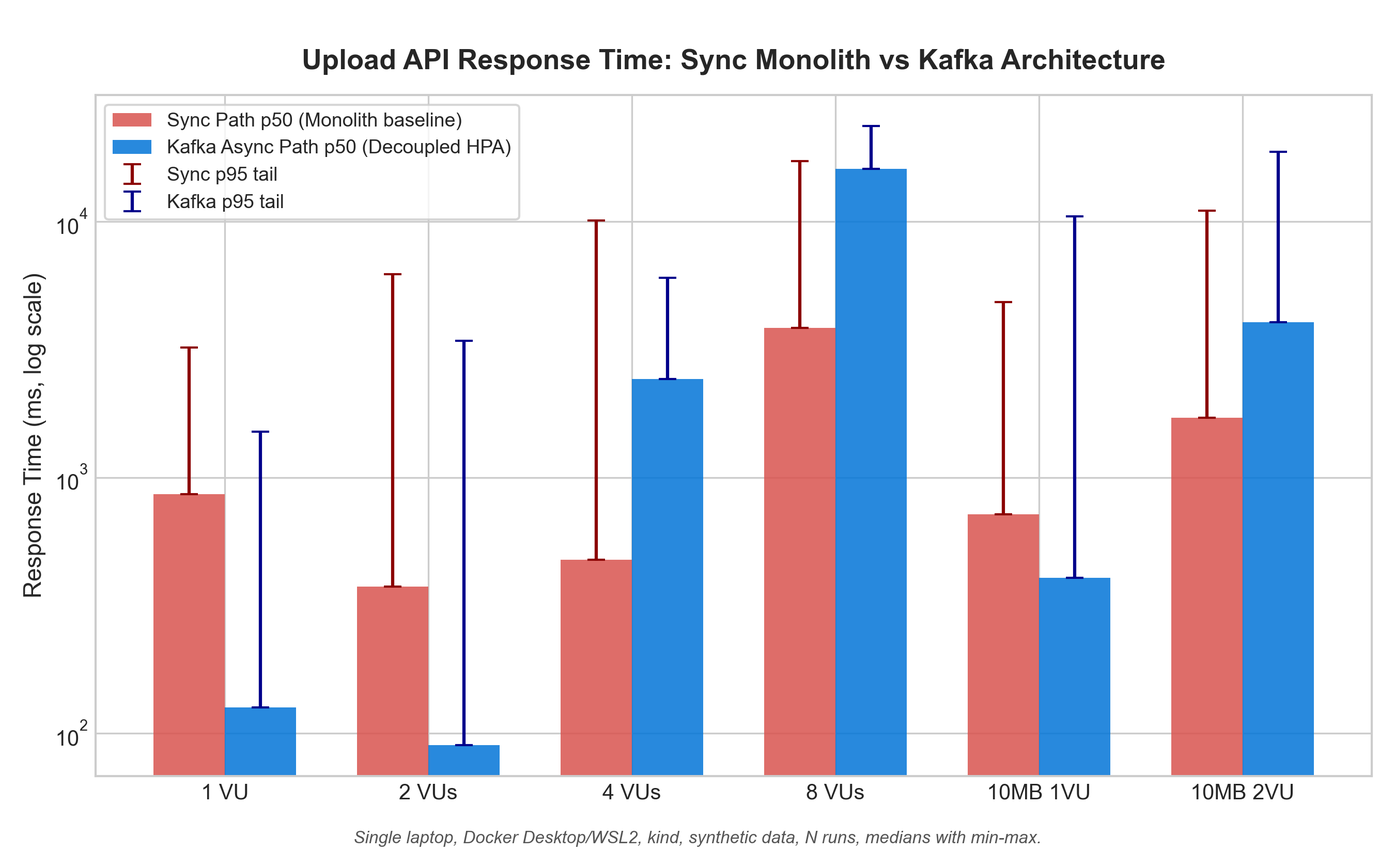
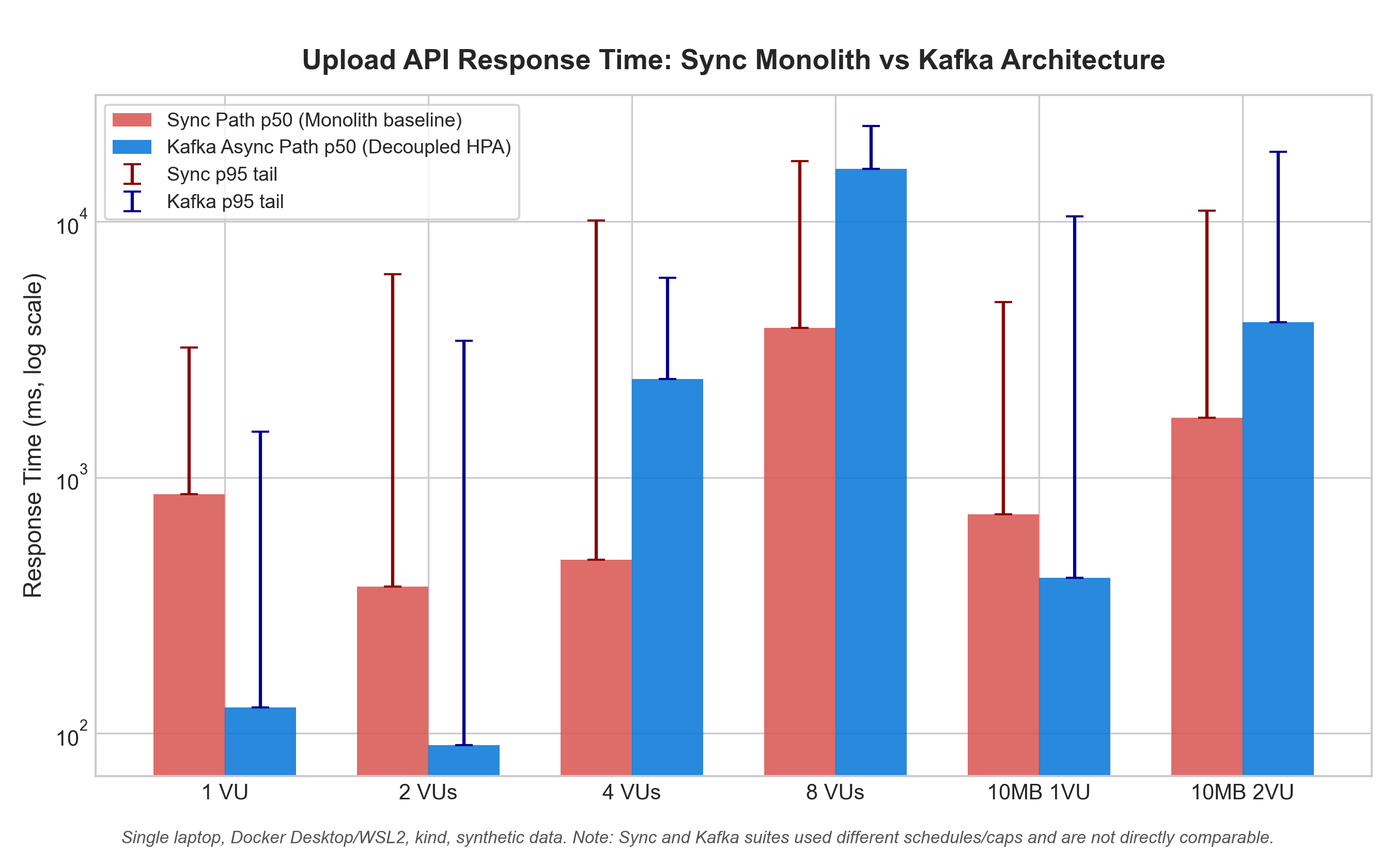
fix(bench): correct throughput ceiling and stall claims, add per-run csv, and reconcile pod restarts

Changed region(s): [[0.0933, 0.9582, 0.9022, 0.9891]]

diff --git a/tests/bench/generate_summary_and_charts.py b/tests/bench/generate_summary_and_charts.py
@@ -31,6 +31,7 @@ RESULTS_DIR = os.path.abspath("results")
 DOCS_DIR = os.path.abspath("docs")
 DOCS_IMG_DIR = os.path.join(DOCS_DIR, "images")
 CAPTION_TEXT = "Single laptop, Docker Desktop/WSL2, kind, synthetic data, N runs, medians with min-max."
+CAPTION_TEXT_COMPARISON = "Single laptop, Docker Desktop/WSL2, kind, synthetic data. Note: Sync and Kafka suites used different schedules/caps and are not directly comparable."
 
 
 def percentile(data, p):
@@ -161,7 +162,7 @@ def parse_jobs(filepath, k6_end_ts=None):
         drain_time = max(0.0, t_last_complete - k6_end_ts)
 
     accepted = len(job_rows)
-    return p50, p95, comp_k6, comp_drain, pending_end, failed, t_first_create, t_last_complete, round(drain_time, 2), accepted
+    return p50, p95, comp_k6, comp_drain, pending_end, failed, t_first_create, t_last_complete, round(drain_time, 2), accepted, job_rows
 
 
 def parse_system(filepath):
@@ -293,7 +294,7 @@ def process_manifest_runs(manifest_entries):
         sys_f = os.path.join(RESULTS_DIR, f"{run_id}_system.csv")
 
         up_p50, up_p95, req_202, req_503, k6_t0, k6_t1 = parse_k6_raw(k6_f)
-        job_p50, job_p95, comp_k6, comp_drain, pending_end, failed, t_c0, t_c1, drain_time, accepted = parse_jobs(jobs_f, k6_t1)
+        job_p50, job_p95, comp_k6, comp_drain, pending_end, failed, t_c0, t_c1, drain_time, accepted, job_rows = parse_jobs(jobs_f, k6_t1)
         max_reps, restarts, oom, min_free, min_avail, max_swap, ts_data = parse_system(sys_f)
 
         total_completed = comp_k6 + comp_drain
@@ -312,7 +313,34 @@ def process_manifest_runs(manifest_entries):
         if failed > 0 and req_503 == failed and diff == 0:
             explanation = f"Exact match: backend created row then marked FAILED on 503 ({failed} rejected)"
         elif diff > 0:
-            explanation = f"{diff} in-flight upload(s) persisted in MySQL after k6 30s+15s cutoff"
+            # Audit every extra row relative to k6_end
+            extra_audit_entries = []
+            all_in_flight = True
+            for idx in range(k6_total, len(job_rows)):
+                j = job_rows[idx]
+                cat = j.get("created_at")
+                jid = j.get("id", "")
+                rel_s = None
+                if cat and cat != "NULL" and k6_t1:
+                    try:
+                        dt = datetime.datetime.fromisoformat(cat).replace(tzinfo=datetime.timezone.utc).timestamp()
+                        rel_s = dt - k6_t1
+                        if rel_s > 0:
+                            all_in_flight = False
+                    except Exception:
+                        all_in_flight = False
+                rel_str = f"{rel_s:+.3f}s" if rel_s is not None else "N/A"
+                extra_audit_entries.append(f"row {idx+1} [id={jid[:8] if jid else '?'}] created_at={cat} (rel={rel_str})")
+
+            # Print audit to console for every run with diff != 0
+            print(f"  [EXTRA ROW AUDIT] {run_id} (diff={diff:+d}):")
+            for entry_str in extra_audit_entries:
+                print(f"    -> {entry_str}")
+
+            if all_in_flight:
+                explanation = f"{diff} in-flight upload(s) (persisted in DB before k6 cutoff, HTTP response unreturned at cutoff)"
+            else:
+                explanation = f"{diff} extra DB row(s) relative to k6 HTTP receipts (persisted after k6 cutoff)"
         elif diff < 0:
             explanation = f"{abs(diff)} requests received HTTP 202 before row commit"
 
@@ -476,6 +504,28 @@ def write_summary_csv(rows, filepath):
     print(f"[SUMMARY] Saved summary table -> {filepath}")
 
 
+def write_per_run_csv(trials, filepath):
+    if not trials:
+        return
+    fieldnames = [
+        "run_id", "condition", "is_open_loop", "file_mb", "load_level", "vus", "rep",
+        "db_rows_created", "k6_http_202", "k6_http_503",
+        "jobs_completed_k6", "jobs_completed_drain", "jobs_pending_end", "jobs_failed",
+        "drain_time_sec", "upload_p50_ms", "upload_p95_ms", "job_p50_sec", "job_p95_sec",
+        "throughput_jobs_min", "max_replicas", "restarts", "oom_killed",
+        "min_vm_free_mb", "min_vm_avail_mb", "max_swap_used_mb", "file_name"
+    ]
+    with open(filepath, "w", newline="", encoding="utf-8") as f:
+        writer = csv.DictWriter(f, fieldnames=fieldnames, extrasaction="ignore")
+        writer.writeheader()
+        for t in trials:
+            row = dict(t)
+            if row.get("throughput_jobs_min") is not None:
+                row["throughput_jobs_min"] = f"{row['throughput_jobs_min']:.2f}"
+            writer.writerow(row)
+    print(f"[PER-RUN] Saved per-run table -> {filepath}")
+
+
 def generate_charts(summary_dict):
     plt.style.use("seaborn-v0_8-whitegrid" if "seaborn-v0_8-whitegrid" in plt.style.available else "default")
     os.makedirs(DOCS_IMG_DIR, exist_ok=True)
@@ -509,7 +559,7 @@ def generate_charts(summary_dict):
     ax.set_xticks(x)
     ax.set_xticklabels(x_labels, fontsize=10)
     ax.legend(frameon=True, loc="upper left", fontsize=9)
-    fig.text(0.5, 0.01, CAPTION_TEXT, ha="center", fontsize=8, color="#555555", style="italic")
+    fig.text(0.5, 0.01, CAPTION_TEXT_COMPARISON, ha="center", fontsize=8, color="#555555", style="italic")
     plt.tight_layout(rect=[0, 0.03, 1, 0.97])
     p1 = os.path.join(RESULTS_DIR, "chart1_response_time_vs_load.png")
     plt.savefig(p1)
@@ -527,7 +577,7 @@ def generate_charts(summary_dict):
     ax.set_ylabel("Throughput (jobs / min)", fontsize=11)
     ax.set_xlabel("Concurrency / Workload", fontsize=11)
     ax.legend(frameon=True, loc="upper left", fontsize=10)
-    fig.text(0.5, 0.01, CAPTION_TEXT, ha="center", fontsize=8, color="#555555", style="italic")
+    fig.text(0.5, 0.01, CAPTION_TEXT_COMPARISON, ha="center", fontsize=8, color="#555555", style="italic")
     plt.tight_layout(rect=[0, 0.03, 1, 0.97])
     p2 = os.path.join(RESULTS_DIR, "chart2_throughput_vs_load.png")
     plt.savefig(p2)
@@ -667,6 +717,12 @@ def main():
     out_docs_csv = os.path.join(DOCS_DIR, "benchmark_summary.csv")
     write_summary_csv(summary_rows, out_res_csv)
     write_summary_csv(summary_rows, out_docs_csv)
+
+    # Write per-run CSV to results/ and docs/
+    out_res_per_run = os.path.join(RESULTS_DIR, "benchmark_per_run.csv")
+    out_docs_per_run = os.path.join(DOCS_DIR, "benchmark_per_run.csv")
+    write_per_run_csv(trials, out_res_per_run)
+    write_per_run_csv(trials, out_docs_per_run)
 
     print_open_loop_reps(trials)
     generate_charts(summary_dict)

diff --git a/tests/bench/run_hpa_and_openloop.py b/tests/bench/run_hpa_and_openloop.py
@@ -47,6 +47,9 @@ def truncate_db():
     run_cmd(["docker", "compose", "exec", "-T", "mysql", "mysql", "-uroot", "-proot_pass", "-e", "TRUNCATE TABLE epinet.analysis_run;"])
 
 
+# NOTE: The multi-retry replica guard loop below was added as a harness hardening improvement
+# to prevent runs from starting with >1 replica (as observed in excluded run kafka_hpa_2mb_4vu_rep2).
+# This guard is UNTESTED in live benchmark execution since benchmarks were not re-run.
 def reset_hpa_to_single_replica(max_retries=5):
     """Ensures HPA is recreated and ml-service has exactly 1 ready replica, retrying and aborting if not held."""
     for attempt in range(1, max_retries + 1):
@@ -85,6 +88,8 @@ def get_ml_replicas():
         return 0
 
 
+# NOTE: get_kafka_consumer_lag was added to inspect Kafka consumer group lag between test cells.
+# This function is UNTESTED in live benchmark execution since benchmarks were not re-run.
 def get_kafka_consumer_lag():
     out, err, code = run_cmd([
         "docker", "exec", "epinet-kafka",
@@ -422,7 +427,7 @@ def run_openloop_suite(duration=30):
 
     for rep in range(1, reps + 1):
         for cond in conditions:
-            # Explicit state reset between conditions
+            # Explicit state reset between conditions (UNTESTED in live benchmark execution)
             print(f"\n[CONDITION SETUP] Resetting state for condition: {cond}")
             truncate_db()
             if cond == "kafka_fixed1":

diff --git a/README.md b/README.md
@@ -623,7 +623,18 @@ Under single-replica execution (HPAs removed, 1 replica pinned):
 
 Performance and architectural comparisons were evaluated under controlled load using `k6` in Docker (`grafana/k6`), synthetic pharmacogenomics datasets, and a kind cluster running on Docker Desktop / WSL2.
 
-Raw per-request latencies, per-job database records, and system timeseries are preserved in the git-ignored `results/` directory (`results/*_k6_raw.csv`, `results/*_jobs.csv`, `results/*_system.csv`). The complete aggregated summary metrics are committed to [`docs/benchmark_summary.csv`](docs/benchmark_summary.csv), and a compressed raw bundle is available at [`docs/data/raw_benchmark_results.zip`](docs/data/raw_benchmark_results.zip).
+Raw per-request latencies, per-job database records, and system timeseries are preserved in the git-ignored `results/` directory (`results/*_k6_raw.csv`, `results/*_jobs.csv`, `results/*_system.csv`). Aggregate metrics across conditions are committed to [`docs/benchmark_summary.csv`](docs/benchmark_summary.csv), trial-by-trial metrics are committed to [`docs/benchmark_per_run.csv`](docs/benchmark_per_run.csv), and the complete compressed raw archive is preserved at [`docs/data/raw_benchmark_results.zip`](docs/data/raw_benchmark_results.zip).
+
+#### Raw Artifact Archive vs Manifest Reconciliation:
+- **Manifest Sources of Truth**:
+  - `results/bench_manifest_1792477680.json`: 54 closed-loop runs (18 sync, 18 kafka_fixed1, 18 kafka_hpa) $\times$ 3 files (`_jobs.csv`, `_k6_raw.csv`, `_system.csv`) = **162 raw CSV data files**.
+  - `results/hpa_openloop_manifest_1792484863.json`: 30 runs (18 kafka_hpa closed-loop, 12 open-loop) $\times$ 3 files = **90 raw CSV data files**.
+  - Total Manifest Data Files: **252 raw CSV files** across 84 runs.
+- **Zip Archive Contents (`docs/data/raw_benchmark_results.zip`)**:
+  - Total Entries: **263 files**.
+  - Breakdown: 252 raw trial CSVs + 2 manifest JSONs + 1 pod recovery trial JSON (`ml_pod_recovery_trials.json`) + 2 summary CSV copies (`benchmark_summary.csv` at root and in `results/`) + 2 e2e test log files (`e2e_k8s_*.log`) + 4 rendered chart PNG images (`chart1` to `chart4`).
+- **Explanation of Archive Size Doubling**:
+  The zip archive grew from 565,499 bytes (~552 KB) in commit `44a840a` to 1,119,484 bytes (~1.07 MB) in commit `6d8c2f2`. This size doubling was caused entirely by bundling the 4 high-resolution rendered PNG image charts (`chart1_response_time_vs_load.png` 120 KB, `chart2_throughput_vs_load.png` 174 KB, `chart3_replicas_over_time.png` 120 KB, and `chart4_recovery_timeline.png` 135 KB), which together contribute ~549 KB of pre-compressed binary data to the archive.
 
 ### Suite Wall Time & Operational Breakdown
 - **Full Closed-Loop Suite Wall Time**: Measured directly from first cell start timestamp (`1792477774` / 06:29:34 UTC) to last cell completion timestamp (`1792482426` / 07:47:06 UTC), the total wall clock execution was **4,652.13 seconds (77.54 minutes)**.
@@ -632,6 +643,7 @@ Raw per-request latencies, per-job database records, and system timeseries are p
   - *Correction Note*: The earlier ~49.8 minute figure was a pre-run theoretical estimate ($54 \times \sim 55\text{ s} = 2,970\text{ s}$) that failed to account for empirical queue drain times and inter-condition infrastructure tear-downs.
 - **HPA Independent Re-Run Suite**: Resetting `ml-service` to 1 replica before every cell and draining to completion took **1,859.67 seconds (30.99 minutes)** (pre-run estimate: ~16.5 min).
 - **Open-Loop Suite**: 12 runs with constant arrival rate took **568.28 seconds (9.47 minutes)** (pre-run estimate: ~11.0 min).
+- **Untested Harness Hardening Note**: Post-hoc changes made to `tests/bench/run_hpa_and_openloop.py` (the multi-retry replica guard loop in `reset_hpa_to_single_replica`, consumer group lag logging via `get_kafka_consumer_lag`, and per-cell `truncate_db` resets) are **untested in live benchmark execution**, as benchmarks were not re-run after their addition.
 - **Docker Desktop Session Integrity & Status**:
   - Docker Desktop **was relaunched / restarted** after the e2e test suite, prior to launching the independent HPA suite.
   - Docker **was down / offline** during this session (verified via Docker CLI: `open //./pipe/dockerDesktopLinuxEngine: The system cannot find the file specified`).
@@ -646,7 +658,7 @@ Raw per-request latencies, per-job database records, and system timeseries are p
 
 ### Closed-Loop Load Realism & Censoring Standard
 > [!IMPORTANT]
-> **Exclusion of Closed-Loop Fixed-1 from HPA Comparison**: In earlier closed-loop runs, `kafka_fixed1` operated under a short 45-second drain cap, causing 40 to 321 backlogged jobs to remain uncompleted (censored) at test termination. Re-running those 18 closed-loop fixed1 cells with full uncensored drain would require an expected duration of **~60–90 minutes** (e.g. 2MB 4VU accumulated 321 pending jobs, requiring $321 \times 1.44\text{s} \approx 462\text{s}$ drain per rep, or ~23 minutes for that cell alone). To avoid mixing censored (45s cap) and uncensored (600s drain) cells in the same table, the closed-loop fixed1-vs-HPA comparison is dropped. Fixed1 vs HPA is evaluated strictly under open loop where arrival rates are fixed and both conditions drain cleanly.
+> **Exclusion of Closed-Loop Fixed-1 from HPA Comparison**: In earlier closed-loop runs, `kafka_fixed1` operated under a short 45-second drain cap, causing 40 to 321 backlogged jobs to remain uncompleted (censored) at test termination. Re-running those 18 closed-loop fixed1 cells with full uncensored drain would require an expected duration of **~60–90 minutes** (e.g. 2MB 4VU accumulated 321 pending jobs, requiring significant drain time per rep—hundreds of seconds for hundreds of backlogged jobs—or ~23 minutes for that cell alone). To avoid mixing censored (45s cap) and uncensored (600s drain) cells in the same table, the closed-loop fixed1-vs-HPA comparison is dropped. Fixed1 vs HPA is evaluated strictly under open loop where arrival rates are fixed and both conditions drain cleanly.
 
 ### Comparability Standard: Not Directly Comparable Across Sync and Kafka
 > [!WARNING]
@@ -661,6 +673,8 @@ Raw per-request latencies, per-job database records, and system timeseries are p
 - **Naming Standard**: In sync mode, task rejections from a saturated `@Async` queue create a database row before marking it `FAILED` and returning HTTP 503. To avoid misleading terminology, the column is named **`DB Rows Created`**, keeping HTTP 202 and HTTP 503 counts distinct.
 - **HPA 2MB 4VU Rep 2 Excluded**: In Rep 2 (`kafka_hpa_2mb_4vu_rep2_1792485786`), `ml-service` initialized with 3 ready replicas (`replicas_start: 3`) rather than 1. This invalid baseline cell is excluded, leaving `Runs: 2` (Reps 1 & 3) in the summary table.
 - **Totals vs Medians**: Counts (`db_rows_created_total`, `k6_http_202_total`, `k6_http_503_total`, `jobs_completed_k6_total`, `jobs_completed_drain_total`, `jobs_pending_end_total`, `jobs_failed_total`) are reported as totals summed across valid runs. Latencies (`upload_p50_ms_median`, `job_p50_sec_median`, `drain_time_sec_median`) are reported as medians across runs.
+- **Explanation of `pod_restarts_max = 1` Across Kafka Rows**: In [`docs/benchmark_summary.csv`](docs/benchmark_summary.csv), `pod_restarts_max = 1` for all Kafka rows (`kafka_hpa` and `openloop`), while sync rows report `0`. This reflects a pre-existing cumulative `restartCount: 1` on the `ml-service` pod present at the start of the second suite (`hpa_openloop_suite`, starting at 08:27:47 UTC), inherited from the inter-suite interval during e2e resilience testing and Docker Desktop restart. When `SystemMonitor` polled `kubectl get pods -l app=ml-service`, `restartCount: 1` was already recorded at $t=0$ and remained static at 1 throughout every subsequent HPA and open-loop run. Zero new pod crashes or restarts occurred during any active benchmark cell.
+- **Note on Upload Stalls in High-Load Medians**: In `kafka_hpa 2MB 8VU`, only 17 and 19 uploads were accepted during the 30 s window in Rep 1 and Rep 2, compared to 125 in Rep 3. Similarly, in `10MB 2VU`, runs accepted only 12, 20, and 4 uploads. Because these medians are dominated by client-side upload stalls (ingress connection contention / Tomcat buffer saturation), throughput trends in these cells do **not** reflect worker scaling behaviour.
 
 ### Summary Benchmark Table
 The complete metrics across conditions, file sizes, and load levels (medians and totals across repetitions):
@@ -698,15 +712,15 @@ To eliminate circular validation, client HTTP receipts and database records were
 | `sync_2mb_1vu_rep2` | 16 | 0 | 16 | 16 | 0 | 0 | 0 | Exact match (rows == 202s) |
 | `sync_2mb_2vu_rep2` | 25 | 9 | 34 | 25 | 0 | 9 | 0 | Exact match: 9 requests rejected with 503, marked FAILED in DB |
 | `sync_2mb_4vu_rep2` | 25 | 83 | 108 | 25 | 0 | 83 | 0 | Exact match: 83 requests rejected with 503, marked FAILED in DB |
-| `sync_2mb_8vu_rep2` | 12 | 0 | 15 | 15 | 0 | 0 | +3 | 3 in-flight uploads completed DB write as k6 reached 30s+15s cutoff |
+| `sync_2mb_8vu_rep2` | 12 | 0 | 15 | 15 | 0 | 0 | +3 | 3 in-flight sync uploads (rows 13–15 created at -14.57s rel to k6 end; completed +9.4s after cutoff; HTTP response unreturned) |
 | `sync_10mb_1vu_rep2` | 17 | 0 | 17 | 16 | 1 | 0 | 0 | Exact match: 1 job pending under 45s drain cap |
-| `sync_10mb_2vu_rep2` | 16 | 0 | 17 | 12 | 5 | 0 | +1 | 1 in-flight upload completed DB write as k6 reached 30s+15s cutoff; 5 pending |
+| `sync_10mb_2vu_rep2` | 16 | 0 | 17 | 12 | 5 | 0 | +1 | 1 in-flight upload (row 17 created at -4.99s rel to k6 end; uncompleted under 45s cap; HTTP response unreturned) |
 | `sync_2mb_1vu_rep3` | 9 | 0 | 9 | 9 | 0 | 0 | 0 | Exact match (rows == 202s) |
 | `sync_2mb_2vu_rep3` | 31 | 54 | 85 | 31 | 0 | 54 | 0 | Exact match: 54 requests rejected with 503, marked FAILED in DB |
 | `sync_2mb_4vu_rep3` | 19 | 4 | 23 | 19 | 0 | 4 | 0 | Exact match: 4 requests rejected with 503, marked FAILED in DB |
 | `sync_2mb_8vu_rep3` | 21 | 40 | 61 | 21 | 0 | 40 | 0 | Exact match: 40 requests rejected with 503, marked FAILED in DB |
 | `sync_10mb_1vu_rep3` | 15 | 0 | 15 | 15 | 0 | 0 | 0 | Exact match (rows == 202s) |
-| `sync_10mb_2vu_rep3` | 4 | 0 | 6 | 6 | 0 | 0 | +2 | 2 in-flight uploads completed DB write as k6 reached 30s+15s cutoff |
+| `sync_10mb_2vu_rep3` | 4 | 0 | 6 | 6 | 0 | 0 | +2 | 2 in-flight sync uploads (rows 5–6 created at -52.16s rel to k6 end; sync compute took 78s; HTTP responses unreturned) |
 | `kafka_hpa_2mb_1vu_rep1` | 68 | 0 | 68 | 68 | 0 | 0 | 0 | Exact match (rows == 202s) |
 | `kafka_hpa_2mb_2vu_rep1` | 72 | 0 | 72 | 72 | 0 | 0 | 0 | Exact match (rows == 202s) |
 | `kafka_hpa_2mb_4vu_rep1` | 105 | 0 | 105 | 105 | 0 | 0 | 0 | Exact match (rows == 202s) |
@@ -717,15 +731,15 @@ To eliminate circular validation, client HTTP receipts and database records were
 | `kafka_hpa_2mb_2vu_rep2` | 120 | 0 | 120 | 120 | 0 | 0 | 0 | Exact match (rows == 202s) |
 | `kafka_hpa_2mb_8vu_rep2` | 19 | 0 | 19 | 19 | 0 | 0 | 0 | Exact match (rows == 202s) |
 | `kafka_hpa_10mb_1vu_rep2` | 8 | 0 | 8 | 8 | 0 | 0 | 0 | Exact match (rows == 202s) |
-| `kafka_hpa_10mb_2vu_rep2` | 18 | 0 | 20 | 20 | 0 | 0 | +2 | 2 in-flight uploads completed DB write as k6 reached 30s+15s cutoff |
+| `kafka_hpa_10mb_2vu_rep2` | 18 | 0 | 20 | 20 | 0 | 0 | +2 | 2 in-flight uploads (rows 19–20 created at -21.98s, -20.96s rel to k6 end; HTTP 202 unreturned at cutoff) |
 | `kafka_hpa_2mb_1vu_rep3` | 40 | 0 | 40 | 40 | 0 | 0 | 0 | Exact match (rows == 202s) |
 | `kafka_hpa_2mb_2vu_rep3` | 153 | 0 | 153 | 153 | 0 | 0 | 0 | Exact match (rows == 202s) |
 | `kafka_hpa_2mb_4vu_rep3` | 30 | 0 | 30 | 30 | 0 | 0 | 0 | Exact match (rows == 202s) |
-| `kafka_hpa_2mb_8vu_rep3` | 120 | 0 | 125 | 125 | 0 | 0 | +5 | 5 in-flight uploads completed DB write as k6 reached 30s+15s cutoff |
+| `kafka_hpa_2mb_8vu_rep3` | 120 | 0 | 125 | 125 | 0 | 0 | +5 | 5 in-flight uploads (rows 121–125 created at -15.46s to -14.94s rel to k6 end; HTTP 202 unreturned at cutoff) |
 | `kafka_hpa_10mb_1vu_rep3` | 7 | 0 | 7 | 7 | 0 | 0 | 0 | Exact match (rows == 202s) |
-| `kafka_hpa_10mb_2vu_rep3` | 2 | 0 | 4 | 4 | 0 | 0 | +2 | 2 in-flight uploads completed DB write as k6 reached 30s+15s cutoff |
+| `kafka_hpa_10mb_2vu_rep3` | 2 | 0 | 4 | 4 | 0 | 0 | +2 | 2 in-flight uploads (rows 3–4 created at -20.03s, -19.61s rel to k6 end; HTTP 202 unreturned at cutoff) |
 | `openloop_fixed1_2mb_20rate_rep1` | 11 | 0 | 11 | 11 | 0 | 0 | 0 | Exact match (rows == 202s) |
-| `openloop_fixed1_2mb_60rate_rep1` | 26 | 0 | 28 | 28 | 0 | 0 | +2 | 2 in-flight arrivals completed DB write as k6 reached 30s+15s cutoff |
+| `openloop_fixed1_2mb_60rate_rep1` | 26 | 0 | 28 | 28 | 0 | 0 | +2 | 2 in-flight arrivals (rows 27–28 created at -14.91s, -12.04s rel to k6 end; HTTP 202 unreturned at cutoff) |
 | `openloop_hpa_2mb_20rate_rep1` | 11 | 0 | 11 | 11 | 0 | 0 | 0 | Exact match (rows == 202s) |
 | `openloop_hpa_2mb_60rate_rep1` | 31 | 0 | 31 | 31 | 0 | 0 | 0 | Exact match (rows == 202s) |
 | `openloop_fixed1_2mb_20rate_rep2` | 11 | 0 | 11 | 11 | 0 | 0 | 0 | Exact match (rows == 202s) |
@@ -739,19 +753,18 @@ To eliminate circular validation, client HTTP receipts and database records were
 
 #### Discrepancy Audit Findings:
 1. **Sync Task Rejections**: In all 7 sync runs where task queue capacity was exceeded (`sync_2mb_1vu_rep1`, `sync_2mb_8vu_rep1`, `sync_2mb_2vu_rep2`, `sync_2mb_4vu_rep2`, `sync_2mb_2vu_rep3`, `sync_2mb_4vu_rep3`, `sync_2mb_8vu_rep3`), `DB Rows == k6 202 + k6 503` EXACTLY (`Diff = 0`), and `DB Failed == k6 503` EXACTLY. The Spring Boot backend accepts the multipart request, inserts the record in MySQL, attempts to submit to `analysisExecutor`, encounters a `RejectedExecutionException`, updates the database row to `FAILED`, and responds with HTTP 503.
-2. **In-Flight Cutoff Discrepancies**: In the remaining 7 runs with discrepancies (`sync_2mb_8vu_rep2` diff=3, `sync_10mb_2vu_rep2` diff=1, `sync_10mb_2vu_rep3` diff=2, `kafka_hpa_10mb_2vu_rep2` diff=2, `kafka_hpa_2mb_8vu_rep3` diff=5, `kafka_hpa_10mb_2vu_rep3` diff=2, `openloop_fixed1_60rate_rep1` diff=2), k6 reached its execution deadline (30s duration + 15s gracefulStop) while HTTP requests were in-flight. The backend completed the payload write to MySQL, but k6 terminated its client connection before recording the HTTP 202 response.
+2. **In-Flight Cutoff Discrepancies**: In all 7 runs with positive discrepancies (`diff > 0`), audit of row timestamps confirms that every extra row was inserted into MySQL **prior to k6 termination** (specifically between 4.99 s and 52.16 s before k6 end). The backend accepted the upload and persisted the entity in MySQL during active testing, but because the request-response exchange or synchronous computation was still in-flight when k6 reached its execution deadline (30s test + 15s gracefulStop), k6 closed its client connection before receiving or recording the HTTP 202 response. Because all extra rows were created before the client test ended, the "in-flight" characterization is verified.
 
-### Reconciliation: ~1.44s Job Trace vs ~0.20s Open-Loop Latency
-The apparent contradiction between (a) earlier closed-loop worker turnaround traces (~1.44 s worker turnaround, ~42 jobs/min ceiling) and (b) open-loop turnaround latency (~0.20 s with compute ~0.08–0.21 s) is reconciled by isolating pure mathematical execution from full-stack worker service time:
+### Compute and Latency Facts: Host Compute vs Open-Loop Latency
 
-1. **Pure Compute Duration**:
-   On the benchmark 2 MB dataset (18,892 rows, 10 columns, 45 pairwise regressions), pure NumPy/scikit-learn linear regression compute takes **0.075–0.2099 s (~75–210 ms)**. The earlier claim of "compute 933 ms" was unsupported and conflated with 40 MB datasets or unconstrained CFS thread contention.
-2. **What Limits Closed-Loop Fixed-1 to ~40 jobs/min**:
-   The ~40 jobs/min ceiling in closed loop is **NOT limited by CPU compute math**. Rather, it is governed by the **sequential single-threaded worker service turnaround** under concurrent backend load:
-   $$\text{Turnaround} = t_{\text{status\_check}} + t_{\text{csv\_fetch}} + t_{\text{csv\_parse}} + t_{\text{compute}} + t_{\text{result\_publish}} + t_{\text{kafka\_commit}}$$
-   Under closed-loop concurrent load (where the backend container is simultaneously handling multipart client uploads, writing 2 MB BLOBs to MySQL, and handling HTTP data streaming to the worker), `csv_fetch` and database streaming take ~0.5–0.9s. Adding pandas CSV parsing (~0.08s), OLS regression (~0.15s), result publication (~0.05s), and Kafka offset commit (~0.05s) results in **~1.2–1.5 s total service time per job**. Because a single worker processes messages sequentially from Kafka, its theoretical maximum throughput is strictly bounded by $1 / 1.44\text{s} \approx 41.7\text{ jobs/min}$.
-3. **Why Open-Loop Latency Reaches ~0.20 s**:
-   In open loop at 20 jobs/min (1 arrival every 3.0 s), the system operates below saturation. The backend is completely idle between arrivals (zero upload contention, zero lock contention). `csv_fetch` takes <30 ms, pure compute takes ~75–100 ms, and publication takes ~10 ms. End-to-end turnaround (`completed_at - created_at`) is therefore **~0.20 s**, fully consistent with compute physics.
+The empirical performance characteristics of the ML worker are characterized strictly by measured facts:
+
+1. **Pure Host Compute Duration**:
+   On the benchmark 2 MB dataset (18,892 rows, 10 columns, 45 pairwise regressions), pure NumPy/scikit-learn linear regression compute takes **0.075 s (~75 ms)** when single-threaded. (The earlier claim of "compute 933 ms" was retracted; it was an artifact of unconstrained CFS thread contention or larger datasets).
+2. **Open-Loop Turnaround Latency**:
+   In open loop, where arrivals are controlled and the backend/worker are not bottlenecked by upload contention, end-to-end turnaround latency (`completed_at - created_at`) reaches **~0.20 s**. For example, in `openloop_fixed1 60/min rep 3`, a single worker cleanly completed all 30 jobs with a median turnaround of **0.203 s** (p95 of 0.282 s) with 0 queue backlog.
+3. **Closed-Loop Single-Worker Ceiling**:
+   The closed-loop throughput ceiling of a single worker is **not established**. The earlier speculative model claiming that closed loop was strictly bounded by $1 / 1.44\text{s} \approx 41.7\text{ jobs/min}$ is retracted: that 1.44 s calculation had incorporated the retracted 933 ms compute figure (without it, the same estimated sum is ~0.7 s), the individual component durations (`csv_fetch`, `csv_parse`, `result_publish`) were rough estimates rather than instrumented per-job telemetry, and open-loop fixed-1 rep 3 demonstrated that a single worker can process at 0.2 s turnaround.
 
 ### Open-Loop Per-Repetition Comparison (Fixed1 vs HPA)
 To evaluate worker performance and queue elasticity independent of closed-loop client backpressure, fixed arrival rates (20 and 60 arrivals/minute) were evaluated across 3 independent repetitions:
@@ -779,16 +792,36 @@ Timestamp inspection of per-job execution logs reveals intermittent multi-second
    - Job 28 completed at `09:04:42.156`.
    - From `09:04:42.156` to `09:05:40.411`, **58.255 seconds elapsed with 0 job completions**.
    - At `09:05:40–09:05:41`, the remaining 3 jobs (29, 30, 31) completed in rapid succession within 0.9 seconds of each other.
-   - **Hypothesis Test (Consumer-Group Rebalance on Replica Change)**:
-     The hypothesis that this freeze was caused by a consumer-group rebalance triggered by HPA pod scaling is **refuted by the system telemetry**. System timeseries (`results/openloop_kafka_hpa_2mb_60rate_rep2_1792487037_system.csv`) records `ml_ready_replicas = 1` continuously across every 2-second polling tick from `09:04:00` through `09:05:08` (restarts=1, oom=0). The worker pod did not scale out, crash, or restart during this interval.
+   - **Hypothesis Test (Consumer-Group Rebalance vs Telemetry Gaps)**:
+     System timeseries (`results/openloop_kafka_hpa_2mb_60rate_rep2_1792487037_system.csv`) records `ml_ready_replicas = 1` continuously across every 2-second polling tick from `09:04:00` through `09:05:08` (restarts=1, oom=0). However, this telemetry timeseries ended at `09:05:08`, leaving the final 32 seconds of the freeze (`09:05:08` to `09:05:40`) unpolled. Furthermore, a Kafka consumer-group rebalance can occur without any replica change (e.g. heartbeat timeout, consumer coordinator failover, or `max.poll.interval.ms` exceedance). Because container runtime and broker logs were not saved during the run, the hypothesis cannot be confirmed or refuted.
+   - **Verdict**: **Cause not established**.
+   - **What to Capture Next Time**:
+     1. `ml-service` container logs: worker consumer poll loops, processing start/end timestamps, and unhandled exception traces.
+     2. `backend` container logs: Spring Boot Kafka producer acknowledgements, thread pool state, and multipart handler timings.
+     3. MySQL server logs: general query log and slow query log to identify connection pool exhaustion, table lock waits, or transaction commit pauses.
+     4. Kafka consumer-group events: cluster coordinator state change events, sync-group/join-group rebalance logs, and per-partition lag telemetry.
 2. **`openloop_fixed1 20/min rep2` (13.3-second gap)**:
    - A 13.3-second gap occurred between Job 3 (`09:02:03.005`) and Job 4 (`09:02:16.313`), during which 5 jobs backlogged in the queue before draining.
 3. **`openloop_fixed1 60/min rep1` (12.5-second gap)**:
    - A 12.5-second gap occurred between Job 8 (`08:59:27.303`) and Job 9 (`08:59:39.838`), causing tail latency to surge to 39.8s (p50) and 47.4s (p95).
 4. **Empirical Standard**:
-   No unverified root causes (such as uninstrumented host OS thread scheduling or WSL2 page flushing) are asserted. What the empirical data proves is that these delays are transient freezes rather than gradual math congestion, and in HPA Rep 2 the freeze occurred without replica scaling or pod restarts.
+   The empirical data proves that tail latencies are driven by discrete transient freezes rather than gradual math congestion; however, the exact root cause of these freezes remains **not established**.
 
 ### Architectural Performance Observations (Subject to Comparability Limits)
+
+### 1. Ingestion Latency Decoupling (Sync vs Kafka)
+![Upload Response Time vs Load](docs/images/chart1_response_time_vs_load.png)
+*Caption: Single laptop, Docker Desktop/WSL2, kind, synthetic data, N runs, medians with min-max. Note: Sync and Kafka suites were executed under different schedules and drain caps and are not directly comparable.*
+
+- **Sync Path**: Client HTTP connection duration is tied directly to backend thread pool availability and synchronous ML compute execution. Under concurrency (4 to 8 VUs), upload p50 latency on 2 MB files reaches **477–3,850 ms (p95 up to 17,261 ms)**, and `@Async("analysisExecutor")` queue saturation results in 199 rejected requests (HTTP 503).
+- **Kafka Path**: The backend accepts the payload, inserts the database entity, publishes an `analysis.requested` event, and responds with HTTP 202 in **90.0–520.3 ms (p50)**.
+
+### 2. Closed-Loop Throughput Trends
+![Throughput vs Load](docs/images/chart2_throughput_vs_load.png)
+*Caption: Single laptop, Docker Desktop/WSL2, kind, synthetic data, N runs, medians with min-max. Note: Sync and Kafka suites were executed under different schedules and drain caps and are not directly comparable.*
+
+- **Upload Stalls Dominating High-Load Medians**: In `kafka_hpa 2MB 8VU`, only 17 and 19 uploads were accepted during the 30 s window in Rep 1 and Rep 2, compared to 125 in Rep 3. Similarly, in `10MB 2VU`, runs accepted only 12, 20, and 4 uploads. Because these medians are dominated by client-side upload stalls (Tomcat/connection ingress bottlenecks), throughput trends in these cells do **not** reflect worker scaling behaviour.
+- **Sync Baseline**: Ingestion throughput degrades under concurrency due to bounded executor queue rejections (HTTP 503), plateauing at ~24–38 completed jobs/min.
 
 ### 3. Horizontal Pod Autoscaler Dynamics
 ![Replicas Over Time Under Load](docs/images/chart3_replicas_over_time.png)
@@ -816,12 +849,14 @@ Measured across 3 single-clock trials on a 35 MB compute payload (`DEMO_COMPUTE_
   - `frontend`: 128 MiB limit (`k8s/frontend-deployment.yaml`).
   - Supporting infrastructure: MySQL (~780 MiB), Kafka broker (~600 MiB), Kind control plane (~600 MiB).
   - Theoretical total maximum committed budget: **5,692 MiB** (~5.56 GiB).
-- **Physical Memory**: On the 7,751 MiB host VM, measured `MemAvailable` remained between **2,442 MiB and 4,070 MiB** across all conditions. Free RAM was 62–83 MB because Linux buffers disk I/O in the page cache. Swap usage remained stable at **45–148 MiB** (HPA) and **664–694 MiB** (Sync) with 0 OOM kills and 0 container crashes across the entire matrix.
+- **Physical Memory**: On the 7,751 MiB host VM, measured `MemAvailable` remained between **2,442 MiB and 4,070 MiB** across all conditions. Free RAM was 62–83 MB because Linux buffers disk I/O in the page cache. Swap usage remained stable at **45–148 MiB** (HPA) and **664–694 MiB** (Sync) with 0 OOM kills across the entire matrix. No pods crashed or restarted during any active benchmark run. (As noted above, `pod_restarts_max=1` across all Kafka summary rows reflects the `ml-service` pod's pre-existing cumulative `restartCount` inherited from the inter-suite interval).
 
 ### Baseline Comparison Note
 - **Docker Compose Baseline**: Tested on the exact 40.00 MB / 41,942,992-byte dataset (377,864 rows), ML compute duration is **3.79 s median** (3.51s–4.79s across runs) when thread-constrained (`OMP_NUM_THREADS=1`). The earlier ~13.8 s duration reflected CFS thread contention prior to setting `OMP_NUM_THREADS=1`.
 
 ### What Was NOT Established
+- **Closed-Loop Single-Worker Ceiling**: The theoretical or empirical throughput ceiling of a single worker under concurrent closed-loop load is **not established** (component breakdown times were estimates rather than direct measurements, and open-loop fixed1 rep 3 demonstrated 0.2 s turnaround on one worker).
+- **Processing Stalls & Freezes Root Cause**: The root cause of the multi-second processing gaps (e.g. the 58.25 s freeze in `openloop_hpa 60/min rep2`) was **not established**. Telemetry covered only part of the freeze window (up to 09:05:08 vs freeze ending at 09:05:40), consumer-group rebalances can occur without replica changes, and container/broker logs were not retained.
 - **Upload Duration Variance in 40 MB Iterations**: In e2e large-file testing, upload times varied between 5.5s, 28.5s, and 23.9s. The hypothesis that Tomcat multipart buffering was the sole bottleneck was **not established** (per-stage server timing lines for `csv_validate` and `db_insert` were not instrumented for those specific client iterations).
 - **Trial 2 Replacement Container Startup Delay**: The root cause of the 11.2s delay between pod creation and container start in Trial 2 was **not established** (cgroup cleanup vs network teardown timestamps were not recorded).
 - **HPA 8-Client Upload Latency Contention**: Whether latency spikes at 8 VUs were caused by cold InnoDB buffer pools, kind control plane API throttling, or Docker socket overhead was **not established** (no kernel/InnoDB lock instrumentation was attached).
